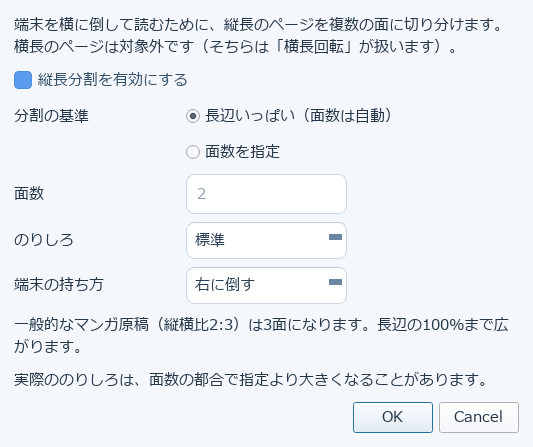
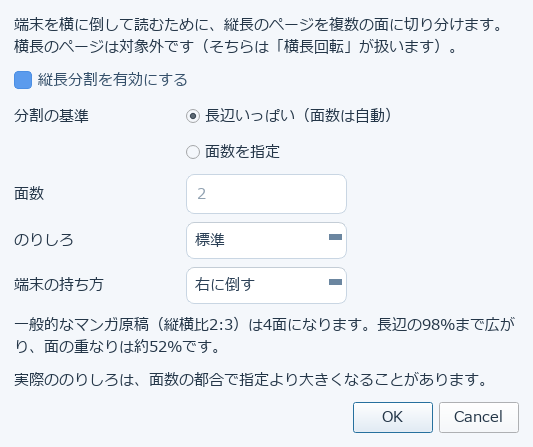
Update 縦長分割 for the overlap fix and the 4-6 face counts
のりしろの設定は、面を等間隔に均す仕組みの下限としてしか使われず、
自然に出る重なりより小さい値だったため一度も効いていなかった。効く値へ
引き上げたので、一般的なマンガ原稿の既定の面数が3面から4面になり、
少なめ・標準・多めがそれぞれ別の結果になる。その表を足した。

面数の指定は2〜6面になった。4面以上でも縮尺は画像の幅で頭打ちになるため
表示は小さくならず、増えるのは面の重なりだけ。「表示は小さくなります」と
書いていたのは誤りだったので直した。

画像を長辺ぴったりに合わせると端末の縁で最外周が見えないという報告が
あったので、両端に1%ずつ余白を残すようにした。それも決まりごとへ。

設定画面の写真は、増えた「面の重なりは約○%です」の行と2〜6の面数が
写るように撮り直した。

Changed region(s): [[0.7805, 0.698, 0.9606, 0.7562], [0.03, 0.7562, 0.3902, 0.7852], [0.4803, 0.698, 0.5103, 0.7562]]

diff --git a/docs/13-image-correction.md b/docs/13-image-correction.md
@@ -36,24 +36,40 @@
 
 - **分割の基準**
   - **長辺いっぱい**（既定） … 画像の幅を画面の長辺に合わせ、必要な面数を自動で決めます
-  - **面数を指定** … 面数を先に決め、そこに収まるまで縮小します。めくる回数は減りますが表示は小さくなります
+  - **面数を指定** … 面数を先に決めます。2〜6面から選べます
 - **のりしろ** … 面をどれだけ重ねるか。少なめ／標準（既定）／多め
 - **端末の持ち方** … 右に倒す（既定）／左に倒す
 
+設定画面には、いまの設定で何面になり、面がどれだけ重なるかが1行で出ます。
+変換する前に効果を確かめられます。
+
 ### 見え方
 
-一般的なマンガ原稿（縦横比2:3）だと **1ページが3面**になります。
-下は、同じページを分割しないで変換したものと、3面に分けたものです。
+一般的なマンガ原稿（縦横比2:3）だと、既定の「標準」で **1ページが4面**になります。
+下は、同じページを分割しないで変換したものと、3面に分けたもの
+（のりしろ「少なめ」に相当）です。
 
 ![分割しない場合と3面に分けた場合](../images/sample-portrait-split.png)
 
 面をまたぐ吹き出しが1面目と2面目の両方に写っているのが「のりしろ」です。
 マンガのセリフが境目で切れても読めるように、面を少し重ねてあります。
+
+のりしろは面数で決まります。**多く重ねるほど面数が増え、めくる回数も増えます。**
+一般的なマンガ原稿では次のようになります。
+
+| のりしろ | 面数 | 面の重なり |
+|---|---:|---:|
+| 少なめ | 3面 | 28% |
+| 標準（既定） | 4面 | 52% |
+| 多め | 5面 | 64% |
+
 **実際ののりしろは、指定より大きくなることがあります。**
 面が等間隔になるように重なりを均すためで、指定値は下限として働きます。
 
-「面数を指定」で2面にすると、長辺の77%までしか広がりません
-（3面なら100%）。めくる回数と大きさのどちらを取るかで選んでください。
+「面数を指定」では、**4面以上なら表示の大きさは「長辺いっぱい」と同じ**で、
+増えるのは面の重なりだけです。セリフを切りたくないときは面数を増やしてください。
+2面・3面は、のりしろを満たすために縮小されることがあります
+（一般的なマンガ原稿で2面なら長辺の62%、3面なら84%）。
 
 ### 決まりごと
 
@@ -62,6 +78,8 @@
 - **表紙は分割しません**
 - **横長のページは対象外**です。そちらは「横長回転」が扱います
 - 縦に非常に長い画像でも **6面が上限**です。気づかないうちにページ数が跳ね上がるのを防ぎます
+- 画像は長辺いっぱいには広げず、**両端に1%ずつ余白**を残します。端まで使い切ると、
+  端末の縁で最外周が見えないことがあるためです
 - 右ペインのプレビューも、実際の変換と同じ面数・同じページ番号で表示されます
 
 ### 対象になるファイル
